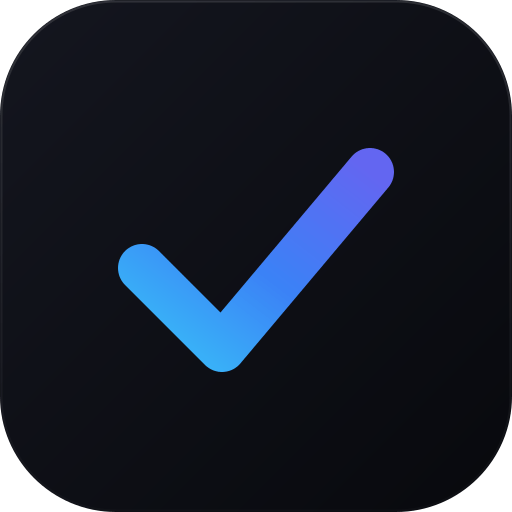
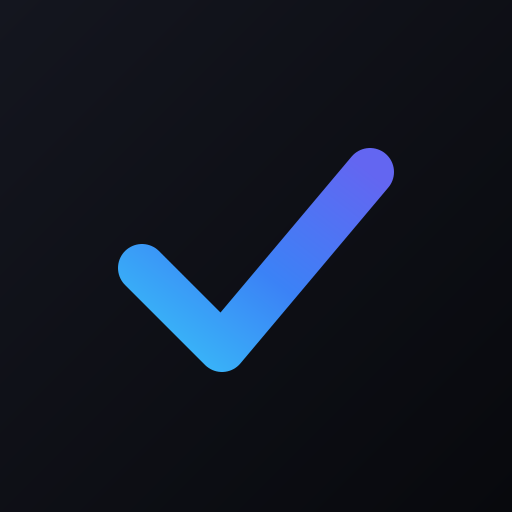
fix(ui): ajustar safe area bottom do input de tarefas no iOS nativo e sincronizar assets

diff --git a/src/components/organisms/TaskDetailSheet.tsx b/src/components/organisms/TaskDetailSheet.tsx
@@ -76,8 +76,9 @@ export const TaskDetailSheet: React.FC<TaskDetailSheetProps> = ({
 
   // Estados de expansão e visualização da descrição
   const [isExpandedModalOpen, setIsExpandedModalOpen] = useState(false);
-  const [isInlineExpanded, setIsInlineExpanded] = useState(false);
-  const [isPreviewMode, setIsPreviewMode] = useState(false);
+  const [isPreviewMode, setIsPreviewMode] = useState(() =>
+    Boolean(selectedTask?.description && selectedTask.description.trim().length > 0)
+  );
   const textareaRef = useRef<HTMLTextAreaElement | null>(null);
   const expandedTextareaRef = useRef<HTMLTextAreaElement | null>(null);
   const titleTextareaRef = useRef<HTMLTextAreaElement | null>(null);
@@ -247,7 +248,10 @@ export const TaskDetailSheet: React.FC<TaskDetailSheetProps> = ({
       setDraftReminders(selectedTask.reminders ?? []);
       draftRemindersRef.current = selectedTask.reminders ?? [];
       setSaveStatus('idle');
-      setIsPreviewMode(false);
+      const hasDescription = Boolean(
+        selectedTask.description && selectedTask.description.trim().length > 0
+      );
+      setIsPreviewMode(hasDescription);
       setIsExpandedModalOpen(false);
     }
   }, [selectedTask?.id]);
@@ -722,12 +726,6 @@ export const TaskDetailSheet: React.FC<TaskDetailSheetProps> = ({
                   </span>
 
                   <div className="flex items-center gap-1.5">
-                    {draftDescription.trim().length > 0 && (
-                      <span className="text-[10px] text-zinc-500 font-medium mr-0.5">
-                        {draftDescription.trim().length} chars
-                      </span>
-                    )}
-
                     {/* Alternar Visualizar / Editar */}
                     {draftDescription.trim().length > 0 && (
                       <button
@@ -745,23 +743,6 @@ export const TaskDetailSheet: React.FC<TaskDetailSheetProps> = ({
                       </button>
                     )}
 
-                    {/* Expandir inline */}
-                    <button
-                      type="button"
-                      onClick={() => {
-                        void NativeBridge.hapticLightImpact();
-                        setIsInlineExpanded((v) => !v);
-                      }}
-                      className={`p-1 rounded text-[10px] border transition-colors ${
-                        isInlineExpanded
-                          ? 'bg-zinc-700 text-zinc-200 border-zinc-600'
-                          : 'bg-zinc-800/60 text-zinc-400 border-zinc-700/60 hover:text-zinc-200'
-                      }`}
-                      title={isInlineExpanded ? 'Reduzir altura' : 'Aumentar altura'}
-                    >
-                      {isInlineExpanded ? <Minimize2 className="w-3 h-3" /> : <Maximize2 className="w-3 h-3" />}
-                    </button>
-
                     {/* Expandir em Tela Cheia / Modal focado */}
                     <button
                       type="button"
@@ -778,52 +759,54 @@ export const TaskDetailSheet: React.FC<TaskDetailSheetProps> = ({
                   </div>
                 </div>
 
-                {/* Barra de Ferramentas de Criação de Listas */}
-                <div className="flex items-center gap-1 mb-1.5 p-1 rounded-lg bg-zinc-950/40 border border-zinc-800/80">
-                  <button
-                    type="button"
-                    onClick={() => insertListPrefix('todo', textareaRef)}
-                    className="px-2 py-1 rounded-md text-[11px] font-medium bg-zinc-900/90 hover:bg-zinc-800 text-zinc-300 hover:text-white border border-zinc-700/50 flex items-center gap-1.5 transition-colors"
-                    title="Inserir Checklist (- [ ])"
-                  >
-                    <CheckSquare className="w-3 h-3 text-emerald-400" />
-                    <span>Checklist</span>
-                  </button>
+                {/* Barra de Ferramentas de Criação de Listas (apenas no modo de edição) */}
+                {!isPreviewMode && (
+                  <div className="flex items-center gap-1 mb-1.5 p-1 rounded-lg bg-zinc-950/40 border border-zinc-800/80">
+                    <button
+                      type="button"
+                      onClick={() => insertListPrefix('todo', textareaRef)}
+                      className="px-2 py-1 rounded-md text-[11px] font-medium bg-zinc-900/90 hover:bg-zinc-800 text-zinc-300 hover:text-white border border-zinc-700/50 flex items-center gap-1.5 transition-colors"
+                      title="Inserir Checklist (- [ ])"
+                    >
+                      <CheckSquare className="w-3 h-3 text-emerald-400" />
+                      <span>Checklist</span>
+                    </button>
 
-                  <button
-                    type="button"
-                    onClick={() => insertListPrefix('bullet', textareaRef)}
-                    className="px-2 py-1 rounded-md text-[11px] font-medium bg-zinc-900/90 hover:bg-zinc-800 text-zinc-300 hover:text-white border border-zinc-700/50 flex items-center gap-1.5 transition-colors"
-                    title="Inserir Marcador (- )"
-                  >
-                    <List className="w-3 h-3 text-indigo-400" />
-                    <span>Marcadores</span>
-                  </button>
+                    <button
+                      type="button"
+                      onClick={() => insertListPrefix('bullet', textareaRef)}
+                      className="px-2 py-1 rounded-md text-[11px] font-medium bg-zinc-900/90 hover:bg-zinc-800 text-zinc-300 hover:text-white border border-zinc-700/50 flex items-center gap-1.5 transition-colors"
+                      title="Inserir Marcador (- )"
+                    >
+                      <List className="w-3 h-3 text-indigo-400" />
+                      <span>Marcadores</span>
+                    </button>
 
-                  <button
-                    type="button"
-                    onClick={() => insertListPrefix('ordered', textareaRef)}
-                    className="px-2 py-1 rounded-md text-[11px] font-medium bg-zinc-900/90 hover:bg-zinc-800 text-zinc-300 hover:text-white border border-zinc-700/50 flex items-center gap-1.5 transition-colors"
-                    title="Inserir Lista Numerada (1. )"
-                  >
-                    <ListOrdered className="w-3 h-3 text-amber-400" />
-                    <span>Numerada</span>
-                  </button>
-                </div>
+                    <button
+                      type="button"
+                      onClick={() => insertListPrefix('ordered', textareaRef)}
+                      className="px-2 py-1 rounded-md text-[11px] font-medium bg-zinc-900/90 hover:bg-zinc-800 text-zinc-300 hover:text-white border border-zinc-700/50 flex items-center gap-1.5 transition-colors"
+                      title="Inserir Lista Numerada (1. )"
+                    >
+                      <ListOrdered className="w-3 h-3 text-amber-400" />
+                      <span>Numerada</span>
+                    </button>
+                  </div>
+                )}
 
                 {/* Área de Texto ou Pré-visualização com Listas */}
                 {isPreviewMode ? (
                   <div
-                    className={`w-full bg-zinc-950/70 border border-zinc-800 rounded-xl p-3 text-xs text-zinc-200 overflow-y-auto ${
-                      isInlineExpanded ? 'min-h-[220px] max-h-[350px]' : 'min-h-[100px] max-h-[180px]'
-                    }`}
+                    onDoubleClick={() => setIsPreviewMode(false)}
+                    title="Duplo clique para editar"
+                    className="w-full bg-zinc-950/70 border border-zinc-800 rounded-xl p-3 text-xs text-zinc-200 overflow-y-auto cursor-pointer min-h-[100px] max-h-[220px]"
                   >
                     {renderMarkdownPreview(draftDescription, toggleChecklistLine)}
                   </div>
                 ) : (
                   <textarea
                     ref={textareaRef}
-                    rows={isInlineExpanded ? 10 : 4}
+                    rows={4}
                     value={draftDescription}
                     onChange={(e) => {
                       setDraftDescription(e.target.value);
@@ -954,21 +937,6 @@ export const TaskDetailSheet: React.FC<TaskDetailSheetProps> = ({
                 })}
               </div>
             </div>
-
-          {/* Botão Excluir Tarefa Principal */}
-          <div className="pt-3 border-t border-zinc-800/80">
-            <button
-              type="button"
-              onClick={() => {
-                void NativeBridge.hapticLightImpact();
-                onDeleteTask(selectedTask);
-              }}
-              className="w-full py-2.5 px-3 rounded-xl bg-red-500/10 border border-red-500/25 hover:bg-red-500/20 text-red-400 text-xs font-semibold flex items-center justify-center gap-2 transition-colors"
-            >
-              <Trash2 className="w-4 h-4" />
-              <span>Excluir Tarefa</span>
-            </button>
-          </div>
         </div>
       </div>
     </div>
@@ -1020,49 +988,55 @@ export const TaskDetailSheet: React.FC<TaskDetailSheetProps> = ({
             </div>
           </div>
 
-          {/* Barra de Ferramentas com Criadores de Listas */}
-          <div className="flex items-center justify-between px-4 py-2 border-b border-zinc-800/80 bg-zinc-950/40 gap-2">
-            <div className="flex items-center gap-1.5">
-              <button
-                type="button"
-                onClick={() => insertListPrefix('todo', expandedTextareaRef)}
-                className="px-2.5 py-1 rounded-lg text-xs font-medium bg-zinc-800/70 hover:bg-zinc-700/80 text-zinc-300 border border-zinc-700/50 flex items-center gap-1.5 transition-colors"
-                title="Adicionar Checklist (- [ ])"
-              >
-                <CheckSquare className="w-3.5 h-3.5 text-emerald-400" />
-                <span>Checklist</span>
-              </button>
+          {/* Barra de Ferramentas com Criadores de Listas (apenas em modo de edição) */}
+          {!isPreviewMode && (
+            <div className="flex items-center justify-between px-4 py-2 border-b border-zinc-800/80 bg-zinc-950/40 gap-2">
+              <div className="flex items-center gap-1.5">
+                <button
+                  type="button"
+                  onClick={() => insertListPrefix('todo', expandedTextareaRef)}
+                  className="px-2.5 py-1 rounded-lg text-xs font-medium bg-zinc-800/70 hover:bg-zinc-700/80 text-zinc-300 border border-zinc-700/50 flex items-center gap-1.5 transition-colors"
+                  title="Adicionar Checklist (- [ ])"
+                >
+                  <CheckSquare className="w-3.5 h-3.5 text-emerald-400" />
+                  <span>Checklist</span>
+                </button>
 
-              <button
-                type="button"
-                onClick={() => insertListPrefix('bullet', expandedTextareaRef)}
-                className="px-2.5 py-1 rounded-lg text-xs font-medium bg-zinc-800/70 hover:bg-zinc-700/80 text-zinc-300 border border-zinc-700/50 flex items-center gap-1.5 transition-colors"
-                title="Lista com marcadores (- )"
-              >
-                <List className="w-3.5 h-3.5 text-indigo-400" />
-                <span>Marcadores</span>
-              </button>
+                <button
+                  type="button"
+                  onClick={() => insertListPrefix('bullet', expandedTextareaRef)}
+                  className="px-2.5 py-1 rounded-lg text-xs font-medium bg-zinc-800/70 hover:bg-zinc-700/80 text-zinc-300 border border-zinc-700/50 flex items-center gap-1.5 transition-colors"
+                  title="Lista com marcadores (- )"
+                >
+                  <List className="w-3.5 h-3.5 text-indigo-400" />
+                  <span>Marcadores</span>
+                </button>
 
-              <button
-                type="button"
-                onClick={() => insertListPrefix('ordered', expandedTextareaRef)}
-                className="px-2.5 py-1 rounded-lg text-xs font-medium bg-zinc-800/70 hover:bg-zinc-700/80 text-zinc-300 border border-zinc-700/50 flex items-center gap-1.5 transition-colors"
-                title="Lista numerada (1. )"
-              >
-                <ListOrdered className="w-3.5 h-3.5 text-amber-400" />
-                <span>Numerada</span>
-              </button>
+                <button
+                  type="button"
+                  onClick={() => insertListPrefix('ordered', expandedTextareaRef)}
+                  className="px-2.5 py-1 rounded-lg text-xs font-medium bg-zinc-800/70 hover:bg-zinc-700/80 text-zinc-300 border border-zinc-700/50 flex items-center gap-1.5 transition-colors"
+                  title="Lista numerada (1. )"
+                >
+                  <ListOrdered className="w-3.5 h-3.5 text-amber-400" />
+                  <span>Numerada</span>
+                </button>
+              </div>
+
+              <span className="text-[11px] text-zinc-500 font-medium hidden sm:inline">
+                {draftDescription.split('\n').filter(Boolean).length} linhas
+              </span>
             </div>
-
-            <span className="text-[11px] text-zinc-500 font-medium hidden sm:inline">
-              {draftDescription.length} caracteres • {draftDescription.split('\n').filter(Boolean).length} linhas
-            </span>
-          </div>
+          )}
 
           {/* Corpo do Editor Expandido: Edição vs Pré-visualização */}
           <div className="flex-1 p-5 overflow-y-auto native-scroll-container bg-zinc-950/20">
             {isPreviewMode ? (
-              <div className="max-w-none text-zinc-200">
+              <div
+                onDoubleClick={() => setIsPreviewMode(false)}
+                title="Duplo clique para editar"
+                className="max-w-none text-zinc-200 cursor-pointer"
+              >
                 {renderMarkdownPreview(draftDescription, toggleChecklistLine)}
               </div>
             ) : (

diff --git a/capacitor.config.ts b/capacitor.config.ts
@@ -1,15 +1,36 @@
 import type { CapacitorConfig } from '@capacitor/cli';
 import { KeyboardResize, KeyboardStyle } from '@capacitor/keyboard';
+import os from 'os';
+
+function getLocalIp(): string {
+  const ifaces = os.networkInterfaces();
+  for (const name of ['en0', 'en1', ...Object.keys(ifaces)]) {
+    for (const iface of ifaces[name] || []) {
+      if (iface.family === 'IPv4' && !iface.internal) {
+        return iface.address;
+      }
+    }
+  }
+  return 'localhost';
+}
+
+const isLiveReload = process.env.CAP_DEV === 'true';
+const devUrl = isLiveReload ? `http://${getLocalIp()}:5173` : undefined;
 
 const config: CapacitorConfig = {
   appId: 'com.meugtd.tasks',
   appName: 'Meu GTD',
   webDir: 'dist',
   backgroundColor: '#09090b', // Evita flash branco ao iniciar no iOS/Android
-  server: {
-    androidScheme: 'https',
-    iosScheme: 'capacitor',
-  },
+  server: isLiveReload
+    ? {
+        url: devUrl,
+        cleartext: true,
+      }
+    : {
+        androidScheme: 'https',
+        iosScheme: 'capacitor',
+      },
   ios: {
     contentInset: 'never', // Controle 100% via CSS env(safe-area-inset-*)
     allowsLinkPreview: false, // Bloqueia preview de links longo no WKWebView

diff --git a/src/styles/globals.css b/src/styles/globals.css
@@ -113,12 +113,23 @@ body {
   padding-right: var(--safe-right);
 }
 
+/* Barra de captura rápida (QuickCapture) adaptativa para PWA e iOS Nativo */
 .bottom-keyboard-aware {
-  padding-bottom: 0 !important;
-  margin-bottom: 0 !important;
+  padding-bottom: var(--safe-bottom, 0px);
+  margin-bottom: 0;
+  transition: padding-bottom 180ms cubic-bezier(0.16, 1, 0.3, 1);
 }
 
+/* No app nativo iOS (ou com safe-area ativa no dispositivo), afasta da borda inferior e do Home Indicator */
+html.platform-ios .bottom-keyboard-aware,
+body.platform-ios .bottom-keyboard-aware,
+html.is-native .bottom-keyboard-aware,
+body.is-native .bottom-keyboard-aware {
+  padding-bottom: max(1rem, calc(var(--safe-bottom, 0px) + 0.375rem));
+}
+
+/* Quando o teclado nativo ou virtual abre, remove o safe-area para encostar suavemente no topo do teclado */
 body.keyboard-open .bottom-keyboard-aware {
-  padding-bottom: 0 !important;
+  padding-bottom: 0.375rem !important;
   margin-bottom: 0 !important;
 }

diff --git a/src/main.tsx b/src/main.tsx
@@ -3,6 +3,19 @@ import ReactDOM from 'react-dom/client';
 import App from './App';
 import './styles/globals.css';
 import { registerSW } from 'virtual:pwa-register';
+import { Capacitor } from '@capacitor/core';
+
+// Marcação de plataforma para refinamento de layout (PWA vs iOS/Android Nativo)
+if (typeof document !== 'undefined') {
+  const platform = Capacitor.getPlatform();
+  const isNative = Capacitor.isNativePlatform();
+  document.documentElement.classList.add(`platform-${platform}`);
+  if (isNative) {
+    document.documentElement.classList.add('is-native');
+  } else {
+    document.documentElement.classList.add('is-pwa');
+  }
+}
 
 // Registro do Service Worker com auto-update e atualização ativa
 const updateSW = registerSW({

diff --git a/src/lib/native.ts b/src/lib/native.ts
@@ -3,6 +3,18 @@ import { Haptics, ImpactStyle, NotificationType } from '@capacitor/haptics';
 import { Keyboard } from '@capacitor/keyboard';
 import { StatusBar, Style } from '@capacitor/status-bar';
 
+// Marcação de plataforma síncrona
+if (typeof document !== 'undefined') {
+  const platform = Capacitor.getPlatform();
+  const isNative = Capacitor.isNativePlatform();
+  document.documentElement.classList.add(`platform-${platform}`);
+  if (isNative) {
+    document.documentElement.classList.add('is-native');
+  } else {
+    document.documentElement.classList.add('is-pwa');
+  }
+}
+
 /**
  * Ponte de Feedback Físico (Haptics), StatusBar e Teclado Nativo
  */

diff --git a/src/components/organisms/QuickCaptureBar.tsx b/src/components/organisms/QuickCaptureBar.tsx
@@ -19,7 +19,7 @@ export const QuickCaptureBar: React.FC<QuickCaptureBarProps> = ({
   const liveParsed = useMemo(() => parseQuickCaptureInput(value), [value]);
 
   return (
-    <div className="bottom-keyboard-aware shrink-0 px-3 pt-1 pb-0 mb-0 bg-gradient-to-t from-zinc-950 via-zinc-950/95 to-transparent">
+    <div className="bottom-keyboard-aware shrink-0 px-3 pt-1 bg-gradient-to-t from-zinc-950 via-zinc-950/95 to-transparent">
       {/* Pílulas de Preview dos Metadados Detectados pelo Parser NLP */}
       <NLPPreviewPills parsed={liveParsed} />
 

diff --git a/index.html b/index.html
@@ -17,6 +17,7 @@
     <!-- iOS Home Screen Icons & Standalone Web App -->
     <link rel="apple-touch-icon" href="/apple-touch-icon.png" />
     <link rel="apple-touch-icon" sizes="180x180" href="/apple-touch-icon-180x180.png" />
+    <link rel="apple-touch-icon-precomposed" href="/apple-touch-icon-precomposed.png" />
     <meta name="apple-mobile-web-app-capable" content="yes" />
     <meta name="apple-mobile-web-app-status-bar-style" content="black-translucent" />
     <meta name="apple-mobile-web-app-title" content="Meu GTD" />

diff --git a/vite.config.ts b/vite.config.ts
@@ -36,6 +36,7 @@ export default defineConfig({
         'favicon-32x32.png',
         'apple-touch-icon.png',
         'apple-touch-icon-180x180.png',
+        'apple-touch-icon-precomposed.png',
         'pwa-192x192.png',
         'pwa-512x512.png',
       ],
